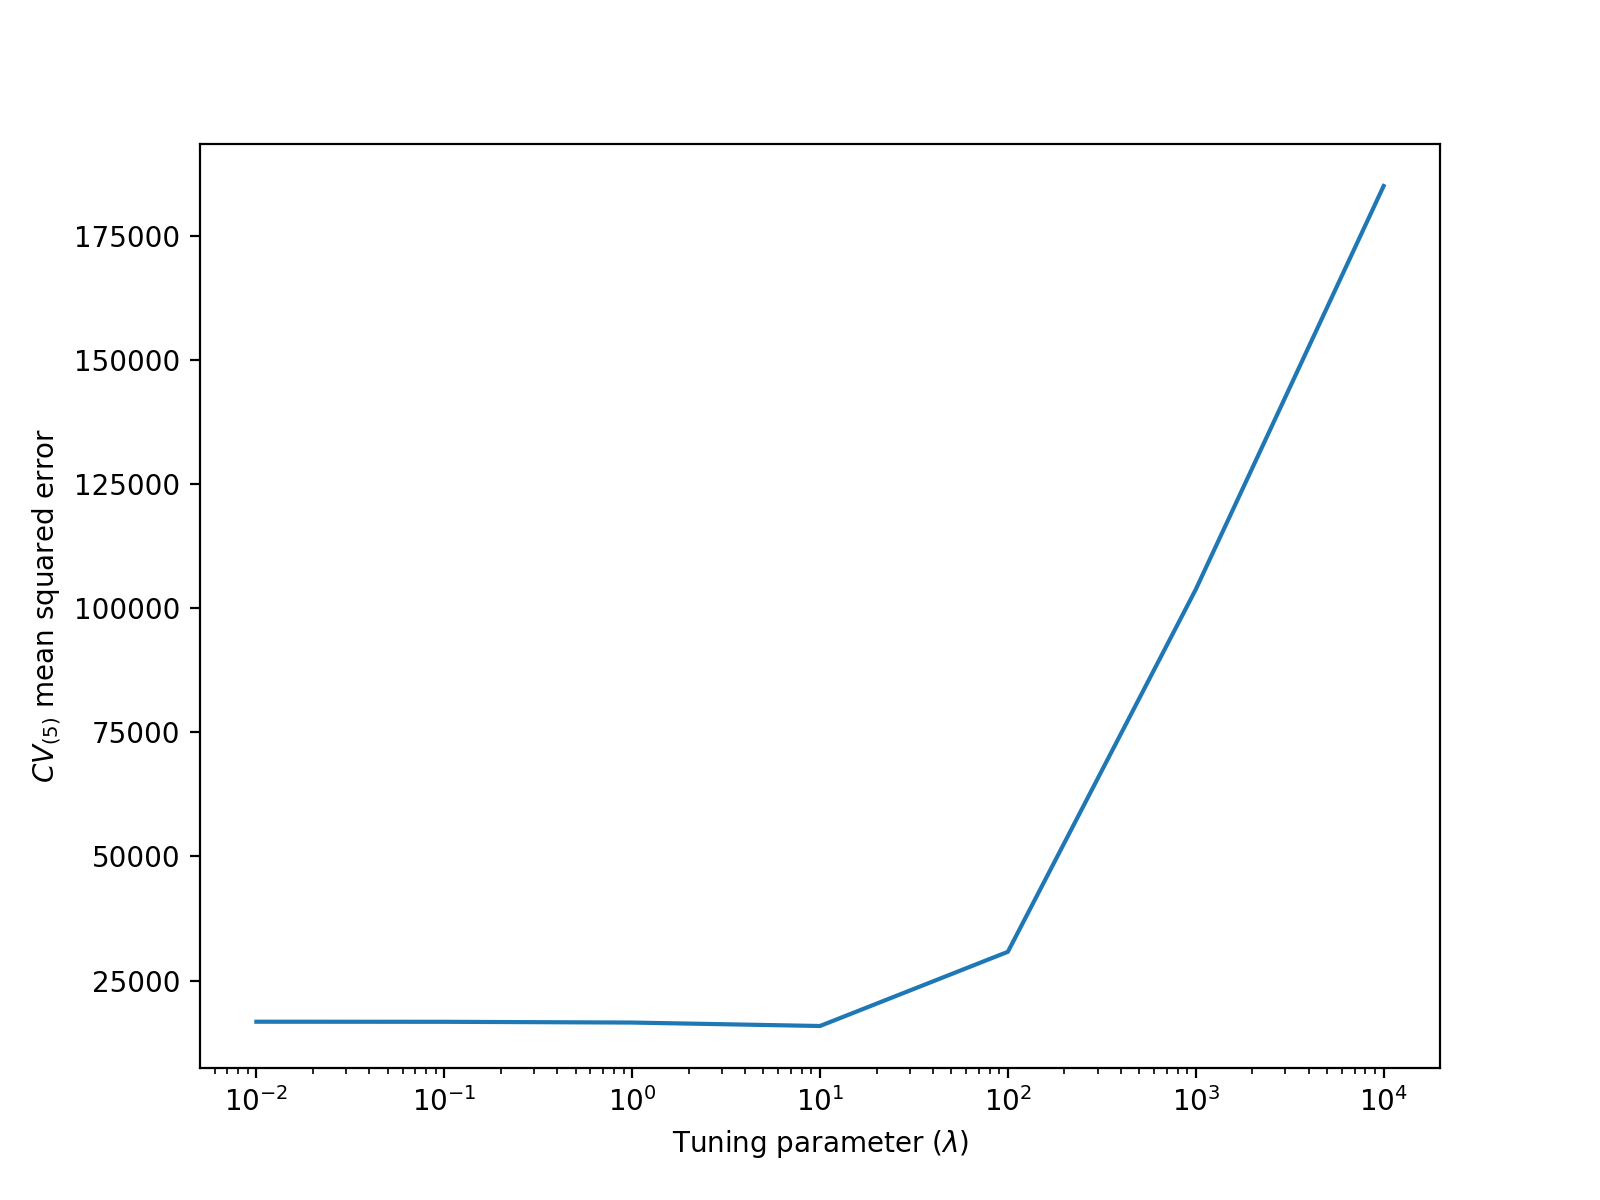
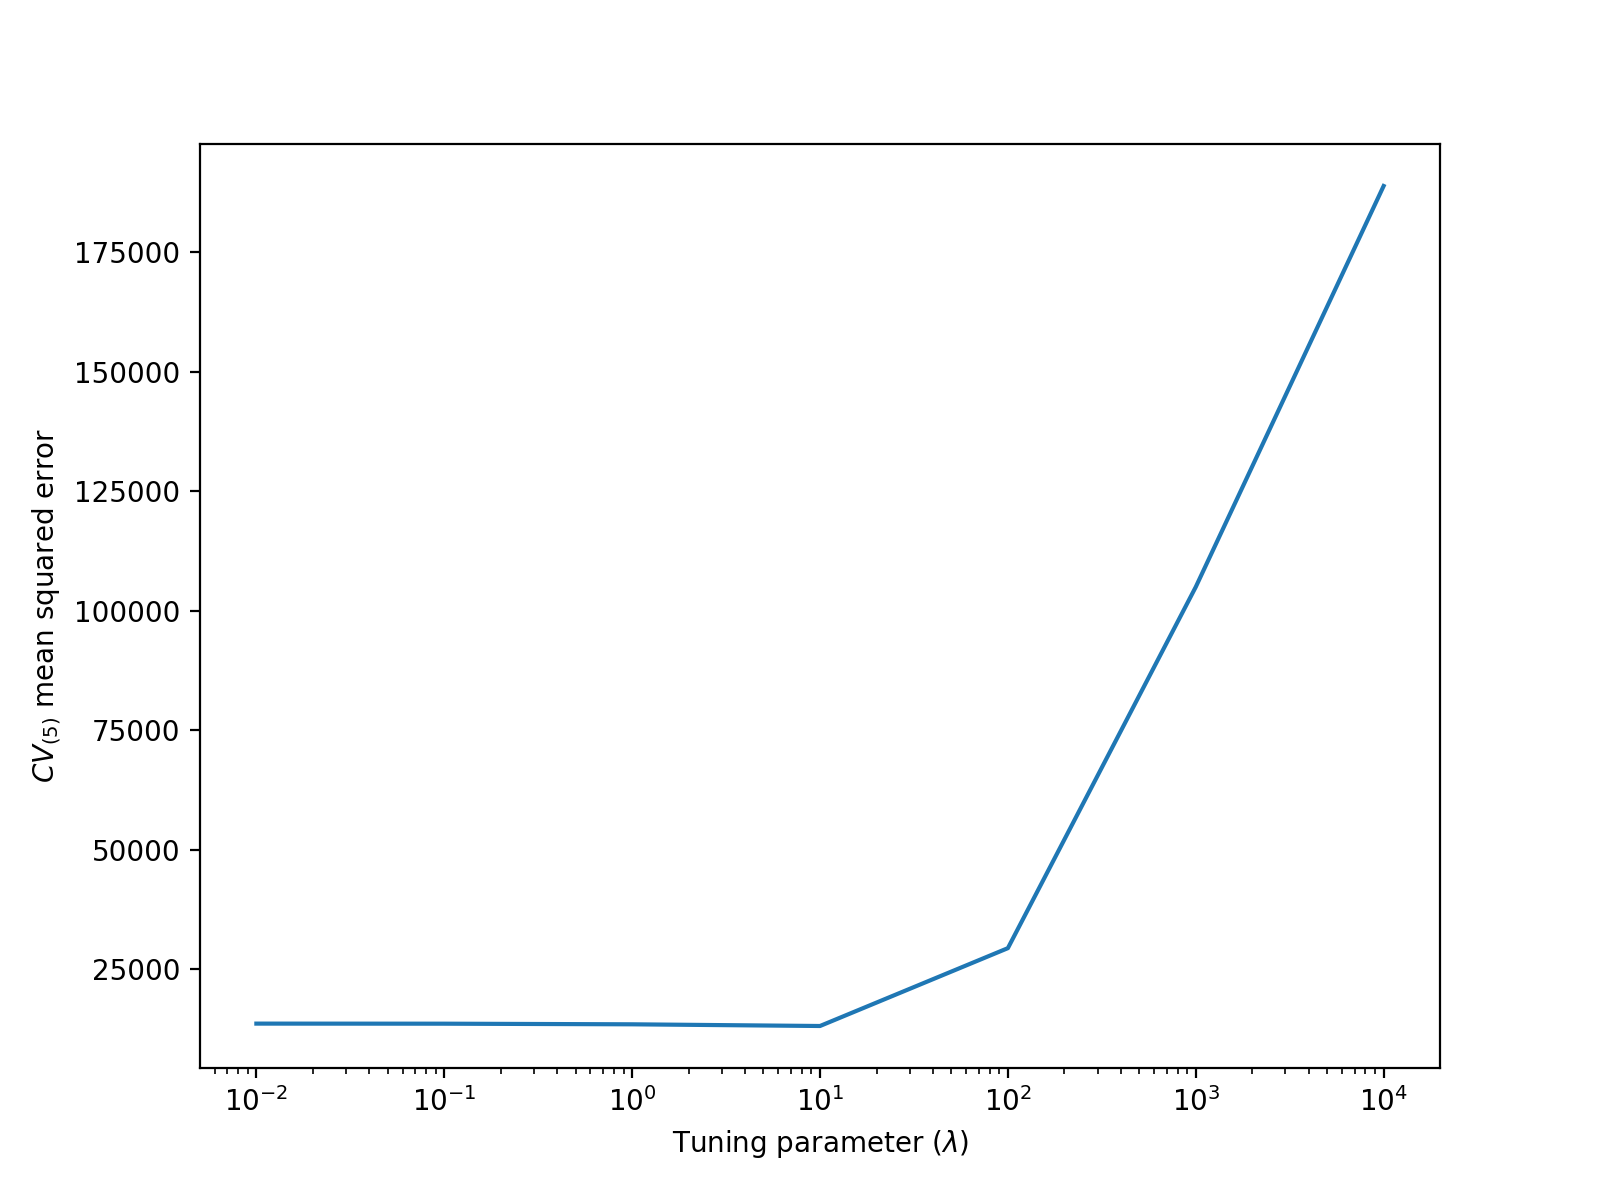
Done with the EC no. 1 code

diff --git a/ErenAkgunduz_Assign2_D6.py b/ErenAkgunduz_Assign2_D6.py
@@ -17,9 +17,9 @@ fmt = logging.Formatter(
 fh.setFormatter(fmt)
 logger.addHandler(fh)
 
-
-# grid of tuning parameters represented by lambda
-l = np.logspace(-2, 4, 7)
+# --- all tuning parameters ---
+l = np.logspace(-2, 6, 9)  # lambda, from 1e-2 to 1e6, and with nine total samples
+a = np.linspace(0, 1, 6)  # alpha, from 0 to 1, now with six evenly spaced samples
 
 
 def preprocess_data(filename: str) -> tuple:
@@ -35,7 +35,7 @@ def preprocess_data(filename: str) -> tuple:
 
         df = pd.read_csv(datafile, sep=",")  # read and pass to dataframe
         mapping = {
-            "Gender": {"Female": 0, "Male": 1},
+            "Gender": {"Male": 0, "Female": 1},
             "Student": {"No": 0, "Yes": 1},
             "Married": {"No": 0, "Yes": 1},
         }  # so no ambiguity about how we encode categorical columns
@@ -48,8 +48,8 @@ def preprocess_data(filename: str) -> tuple:
         sys.exit("Check if things are right and try again :)")
 
 
-def ridge_regression(data) -> tuple:
-    "Establish design matrix and response vector, prepare both for ridge regression"
+def elastic_net(data) -> tuple:
+    "Establish design matrix and response vector, prepare both for elastic net"
     y = data[:, 9]  # extract only the data from the output column (balance)
     y = (lambda c: c - c.mean())(y)  # IIFE to center response vector
     logger.debug(y.shape)
@@ -59,30 +59,36 @@ def ridge_regression(data) -> tuple:
     X = (dm - np.mean(dm, axis=0)) / np.std(dm, axis=0)  # standardize (center & scale)
 
     logger.debug(X.shape)
-    logger.debug([np.mean(X[:, k]) for k in range(X.shape[1])])
-    logger.debug([np.std(X[:, k]) for k in range(X.shape[1])])
+    logger.debug(np.mean(X[:, 6]))
+    logger.debug(np.std(X[:, 6]))
     return (X, y)
 
 
-def gradient_descent(X, y, l, a=10**-5) -> np.ndarray:
-    "Implementation of vectorized batch gradient descent with learning rate alpha, applying ridge regression"
+def coordinate_descent(X, y, l, a) -> np.ndarray:
+    "Implementation of vectorized coordinate descent, applying elastic net"
 
-    def gd(l):
+    def cd(l, a):
+        # b vector, each value (b_k) remains constant
+        b = np.array([np.sum(X[:, k] ** 2) for k in range(X.shape[1])])
         # starting parameters vector
-        b = np.array([np.random.rand() for _ in range(X.shape[1])])
-        for _ in range(10**5):  # total iterations for each tuning parameter
-            b = b - 2 * a * (l * b - X.T @ (y - X @ b))
-        return b
+        beta = np.array([np.random.rand() for _ in range(X.shape[1])])
+        for _ in range(1000):  # total iterations
+            for k, _ in enumerate(beta):
+                x_k = X[:, k]
+                a_k = x_k.T @ (y - X @ beta + x_k * beta[k])
+                relu = np.maximum(0, np.abs(a_k) - (l * (1 - a) / 2))
+                beta[k] = np.sign(a_k) * relu / (b[k] + l * a)
+        return beta
 
-    coeffs = np.zeros((7, 9))
-    logger.debug(coeffs)
+    coeffs = np.zeros((6, 9, 9))
 
-    if not isinstance(l, (int, float)):
-        for index, val in enumerate(l):
-            b = gd(val)
-            coeffs[index] = b
+    if not isinstance(l, (int, float)) and not isinstance(a, (int, float)):
+        for i_a, val_a in enumerate(a):
+            for i_l, val_l in enumerate(l):
+                beta = cd(val_l, val_a)
+                coeffs[i_a, i_l] = beta
     else:
-        coeffs = gd(l)
+        coeffs = cd(l, a)
     return coeffs
 
 
@@ -110,20 +116,27 @@ def cross_validation(data, k: int = 5) -> np.ndarray:
         # logger.debug(f"{train.shape}\n{validation.shape}")
         # logger.debug(train[:1])
         # logger.debug(validation[:1])
-        train_X, train_y = ridge_regression(train)
-        val_X, val_y = ridge_regression(validation)
-        b = gradient_descent(train_X, train_y, l)
+        train_X, train_y = elastic_net(train)
+        val_X, val_y = elastic_net(validation)
+        b = coordinate_descent(train_X, train_y, l, a)
         # after preparing and training data, once again check that things look ok
         logger.debug(f"{l.shape} {b.shape} {val_X.shape} {b[0].shape} {val_y.shape[0]}")
         mse = [
-            ((val_y - val_X @ b[i]).T @ (val_y - val_X @ b[i]) / val_y.shape[0])
-            for i, _ in enumerate(l)
+            [
+                (
+                    (val_y - val_X @ b[i_a, i_l]).T
+                    @ (val_y - val_X @ b[i_a, i_l])
+                    / val_y.shape[0]
+                )
+                for i_l, _ in enumerate(l)
+            ]
+            for i_a, _ in enumerate(b)
         ]
         cv_errors.append(mse)
 
     cv_error = np.array(cv_errors).T
     logger.debug(f"{cv_error.shape} {cv_error}")
-    cv_error = np.array([l.mean() for l in cv_error])
+    cv_error = cv_error.mean(axis=2)
     logger.debug(f"{cv_error.shape} {cv_error}")
     return cv_error
 
@@ -131,31 +144,47 @@ def cross_validation(data, k: int = 5) -> np.ndarray:
 def main():
     columns, data = preprocess_data("Credit_N400_p9.csv")  # unpack the tuple
     # --- Deliverable 1 ---
-    X, y = ridge_regression(data)
-    # transpose so that each row is one of the nine features with the seven columns for TP
-    b = gradient_descent(X, y, l).T  # use default value for learning rate
-    # this way, each index (row) has the vector I need to plot points
-    plt.figure(figsize=(8, 6))
-    plt.xscale("log")
-    [plt.plot(l, b, label=f"{columns[i]}") for i, b in enumerate(b)]
-    plt.xlabel(r"Tuning parameter ($\lambda$)")
-    plt.ylabel(r"Regression coefficients ($\hat{\beta}$)")
-    plt.legend(title="Features", fontsize="small")
-    plt.savefig("img/assign1/deliverable1.png", dpi=200)
+    X, y = elastic_net(data)
+    B = coordinate_descent(X, y, l, a)
+    logger.debug(f"{B.shape}\n{B}")
+    for index, alpha in enumerate(B):
+        plt.figure(figsize=(8, 6))
+        plt.xscale("log")
+        # transpose so that each row is one of the nine features with the nine columns for TP
+        # this way, each index (row) has the vector I need to plot points
+        [plt.plot(l, b, label=f"{columns[i]}") for i, b in enumerate(alpha.T)]
+        plt.xlabel(r"Tuning parameter ($\lambda$)")
+        plt.ylabel(r"Regression coefficients ($\hat{\beta}$)")
+        plt.legend(title="Features", fontsize="small")
+        plt.savefig(f"img/assign2/deliverable1_{index}.png", dpi=200)
     # --- Deliverable 2 ---
     cv_error = cross_validation(data)
     plt.figure(figsize=(8, 6))
     plt.xscale("log")
-    plt.plot(l, cv_error)
+    [plt.plot(l, cv, label=f"{round(a[i], 1)}") for i, cv in enumerate(cv_error.T)]
     plt.xlabel(r"Tuning parameter ($\lambda$)")
     plt.ylabel(r"$CV_{(5)}$ mean squared error")
-    plt.savefig("img/assign1/deliverable2.png", dpi=200)
+    plt.legend(title=r"$\alpha$", fontsize="small")
+    plt.savefig("img/assign2/deliverable2.png", dpi=200)
     # --- Deliverable 3 ---
-    l_optimal = float(l[cv_error.argmin()])
-    print(l_optimal)
+    logger.debug(cv_error.argmin())
+    logger.debug(cv_error.min())
+    logger.debug(
+        cv_error[
+            cv_error.argmin() // cv_error.shape[1],  # gets the row
+            cv_error.argmin() % cv_error.shape[1],  # gets the column
+        ]
+    )
+    l_optimal = float(l[cv_error.argmin() // cv_error.shape[1]])
+    a_optimal = float(a[cv_error.argmin() % cv_error.shape[1]])
+    print(l_optimal, a_optimal)
     # --- Deliverable 4 ---
-    b = gradient_descent(X, y, l_optimal)
-    print(b)
+    B = coordinate_descent(X, y, l_optimal, a_optimal)
+    print(B)
+    B = coordinate_descent(X, y, l_optimal, a[0])  # lasso
+    print(B)
+    B = coordinate_descent(X, y, l_optimal, a[5])  # ridge
+    print(B)
 
 
 if __name__ == "__main__":

diff --git a/ErenAkgunduz_Assign1_D6.py b/ErenAkgunduz_Assign1_D6.py
@@ -1,0 +1,138 @@
+import os
+import sys
+import logging
+import numpy as np
+import pandas as pd
+import matplotlib.pyplot as plt
+from sklearn.preprocessing import OrdinalEncoder, StandardScaler
+from sklearn.linear_model import Ridge
+from sklearn.model_selection import cross_val_score
+
+
+logger = logging.getLogger(__name__)
+logger.setLevel(logging.DEBUG)
+logging.getLogger("matplotlib").setLevel(logging.WARNING)
+
+fh = logging.StreamHandler()
+fmt = logging.Formatter(
+    "%(asctime)s %(levelname)s %(lineno)d:%(filename)s(%(process)d) - %(message)s"
+)
+fh.setFormatter(fmt)
+logger.addHandler(fh)
+
+
+# grid of tuning parameters represented by lambda
+l = np.logspace(-2, 4, 7)
+
+
+def preprocess_data(filename: str) -> tuple:
+    "Take in raw data and convert it to a workable format/state"
+    if not isinstance(filename, str):
+        raise TypeError("Filename should be a string :)")
+
+    try:
+        datafile = f"{os.getcwd()}/{filename}"
+        logger.debug(datafile)
+        if not os.path.exists(datafile):
+            raise OSError("Expected data file, didn't find it :/")
+
+        df = pd.read_csv(datafile, sep=",")  # read and pass to dataframe
+        # debug shows that scikit-learn has mapped male to 1 and female to 0
+        df[["Gender", "Student", "Married"]] = OrdinalEncoder().fit_transform(
+            df[["Gender", "Student", "Married"]]
+        )
+        logger.debug(df[["Gender", "Student", "Married"]].head(10))
+
+        # convert dataframe to numpy array for faster computations
+        return (df.columns.to_numpy(), np.array(df))
+    except OSError:
+        print("Couldn't load in the data due to OS error.")
+        sys.exit("Check if things are right and try again :)")
+
+
+def standardize(data) -> tuple:
+    "Establish design matrix and response vector, prepare both for ridge regression"
+    y = data[:, 9]  # extract only the data from the output column (balance)
+    y = (lambda c: c - c.mean())(y)  # IIFE to center response vector
+    logger.debug(y.shape)
+    logger.debug(y.mean())
+
+    dm = np.delete(data, 9, axis=1)  # extract the design matrix
+    X = StandardScaler().fit_transform(dm)  # standardize (center & scale)
+
+    logger.debug(X.shape)
+    logger.debug([np.mean(X[:, k]) for k in range(X.shape[1])])
+    logger.debug([np.std(X[:, k]) for k in range(X.shape[1])])
+    return (X, y)
+
+
+def ridge_regression(X, y, l, cv: bool = False, k: int = 5) -> np.ndarray:
+    if not isinstance(k, int):
+        raise TypeError("Number of folds should be an integer :)")
+
+    coeffs = np.zeros((7, 9))
+    cv_errors = []
+
+    def ridge(a):
+        ridge = Ridge(alpha=a)
+        ridge.fit(X, y)
+        return ridge.coef_
+
+    if not isinstance(l, (int, float)):
+        for index, val in enumerate(l):
+            if cv:
+                cv_errors.append(
+                    np.abs(
+                        cross_val_score(
+                            Ridge(alpha=val),
+                            X,
+                            y,
+                            cv=k,
+                            scoring="neg_mean_squared_error",
+                        )
+                    )
+                )
+            else:
+                coeffs[index] = ridge(val)
+    else:
+        coeffs = ridge(l)
+
+    if cv:
+        logger.debug(f"{np.array(cv_errors).shape}\n{np.array(cv_errors)}")
+        logger.debug(np.array(cv_errors).mean(axis=1))
+        return np.array(cv_errors).mean(axis=1)
+    return coeffs
+
+
+def main():
+    columns, data = preprocess_data("Credit_N400_p9.csv")  # unpack the tuple
+    # --- Deliverable 1 ---
+    X, y = standardize(data)
+    # transpose so that each row is one of the nine features with the seven columns for TP
+    b = ridge_regression(X, y, l).T
+    # this way, each index (row) has the vector I need to plot points
+    plt.figure(figsize=(8, 6))
+    plt.xscale("log")
+    [plt.plot(l, b, label=f"{columns[i]}") for i, b in enumerate(b)]
+    plt.xlabel(r"Tuning parameter ($\lambda$)")
+    plt.ylabel(r"Regression coefficients ($\hat{\beta}$)")
+    plt.legend(title="Features", fontsize="small")
+    plt.savefig("img/assign1/deliverable1_d6.png", dpi=200)
+    # --- Deliverable 2 ---
+    cv_error = ridge_regression(X, y, l, True)
+    plt.figure(figsize=(8, 6))
+    plt.xscale("log")
+    plt.plot(l, cv_error)
+    plt.xlabel(r"Tuning parameter ($\lambda$)")
+    plt.ylabel(r"$CV_{(5)}$ mean squared error")
+    plt.savefig("img/assign1/deliverable2_d6.png", dpi=200)
+    # --- Deliverable 3 ---
+    l_optimal = float(l[cv_error.argmin()])
+    print(l_optimal)
+    # --- Deliverable 4 ---
+    b = ridge_regression(X, y, l_optimal)
+    print(b)
+
+
+if __name__ == "__main__":
+    main()
